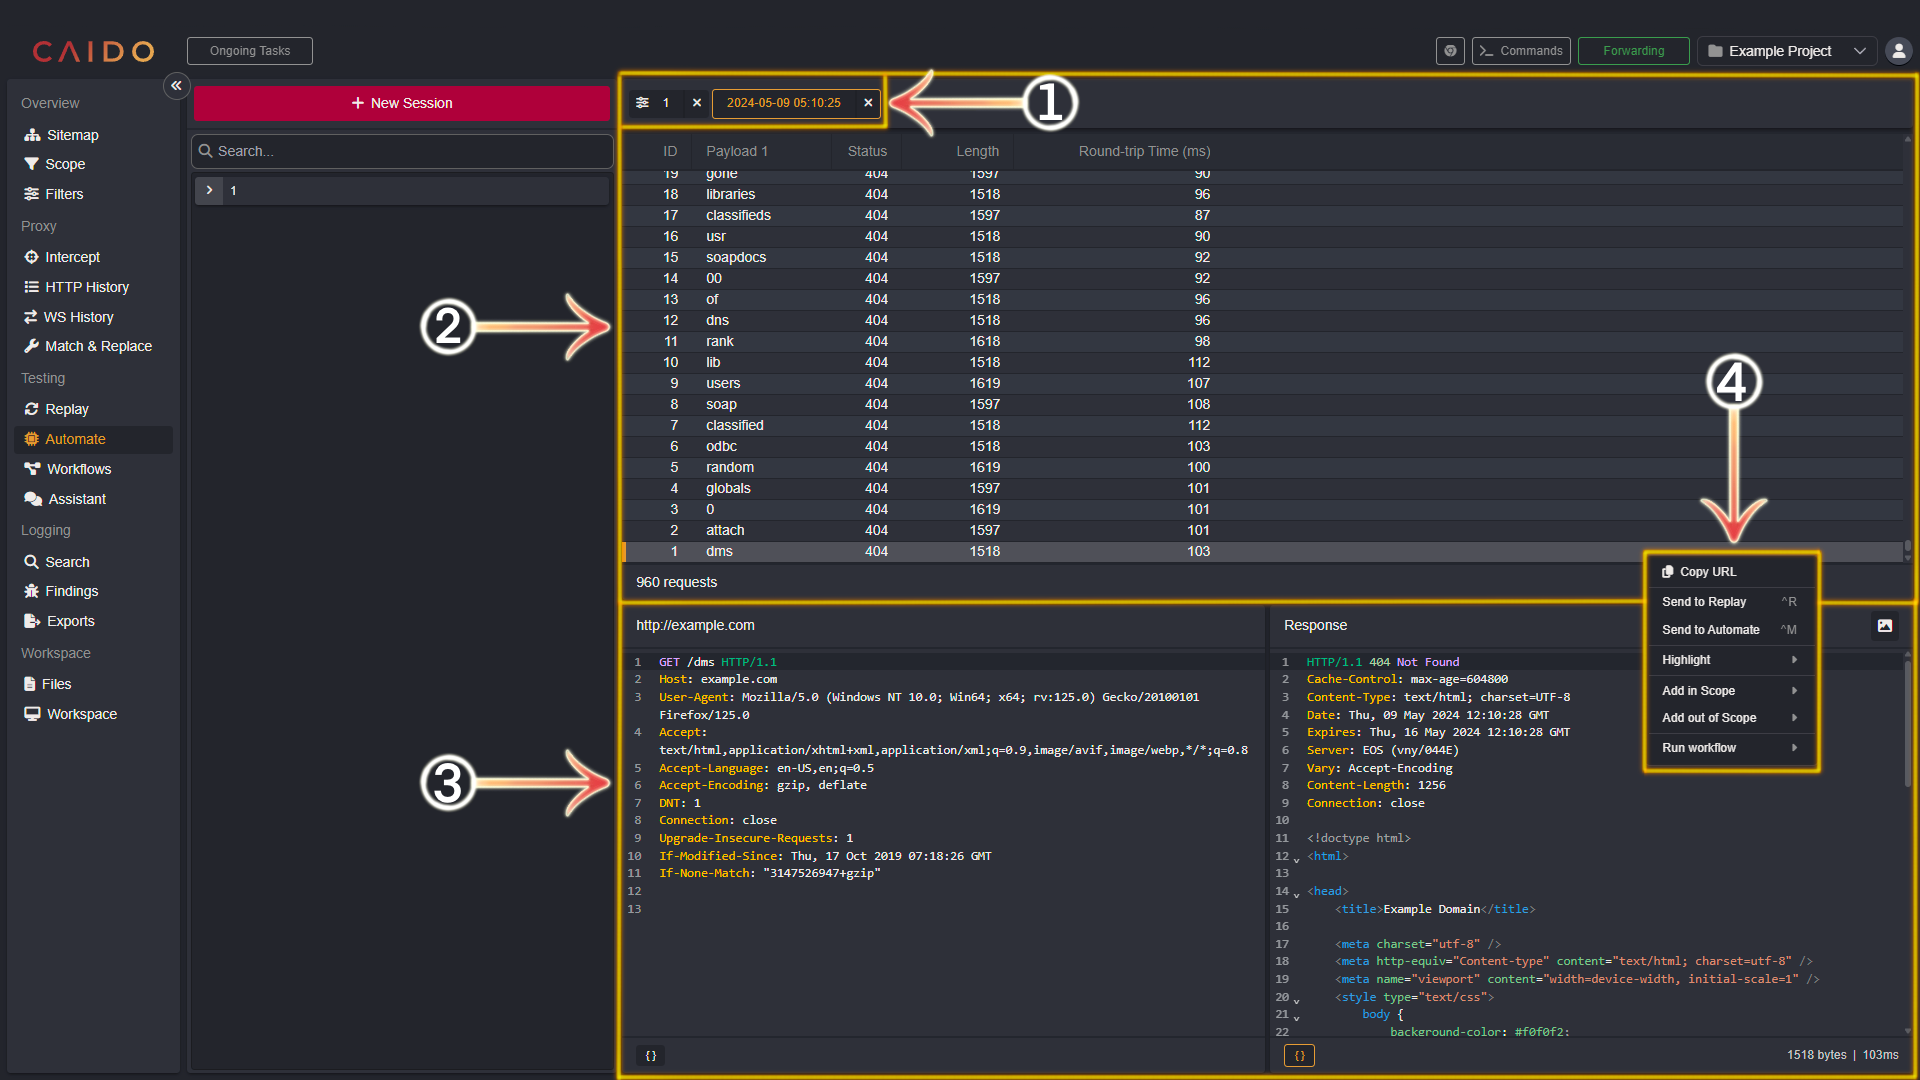
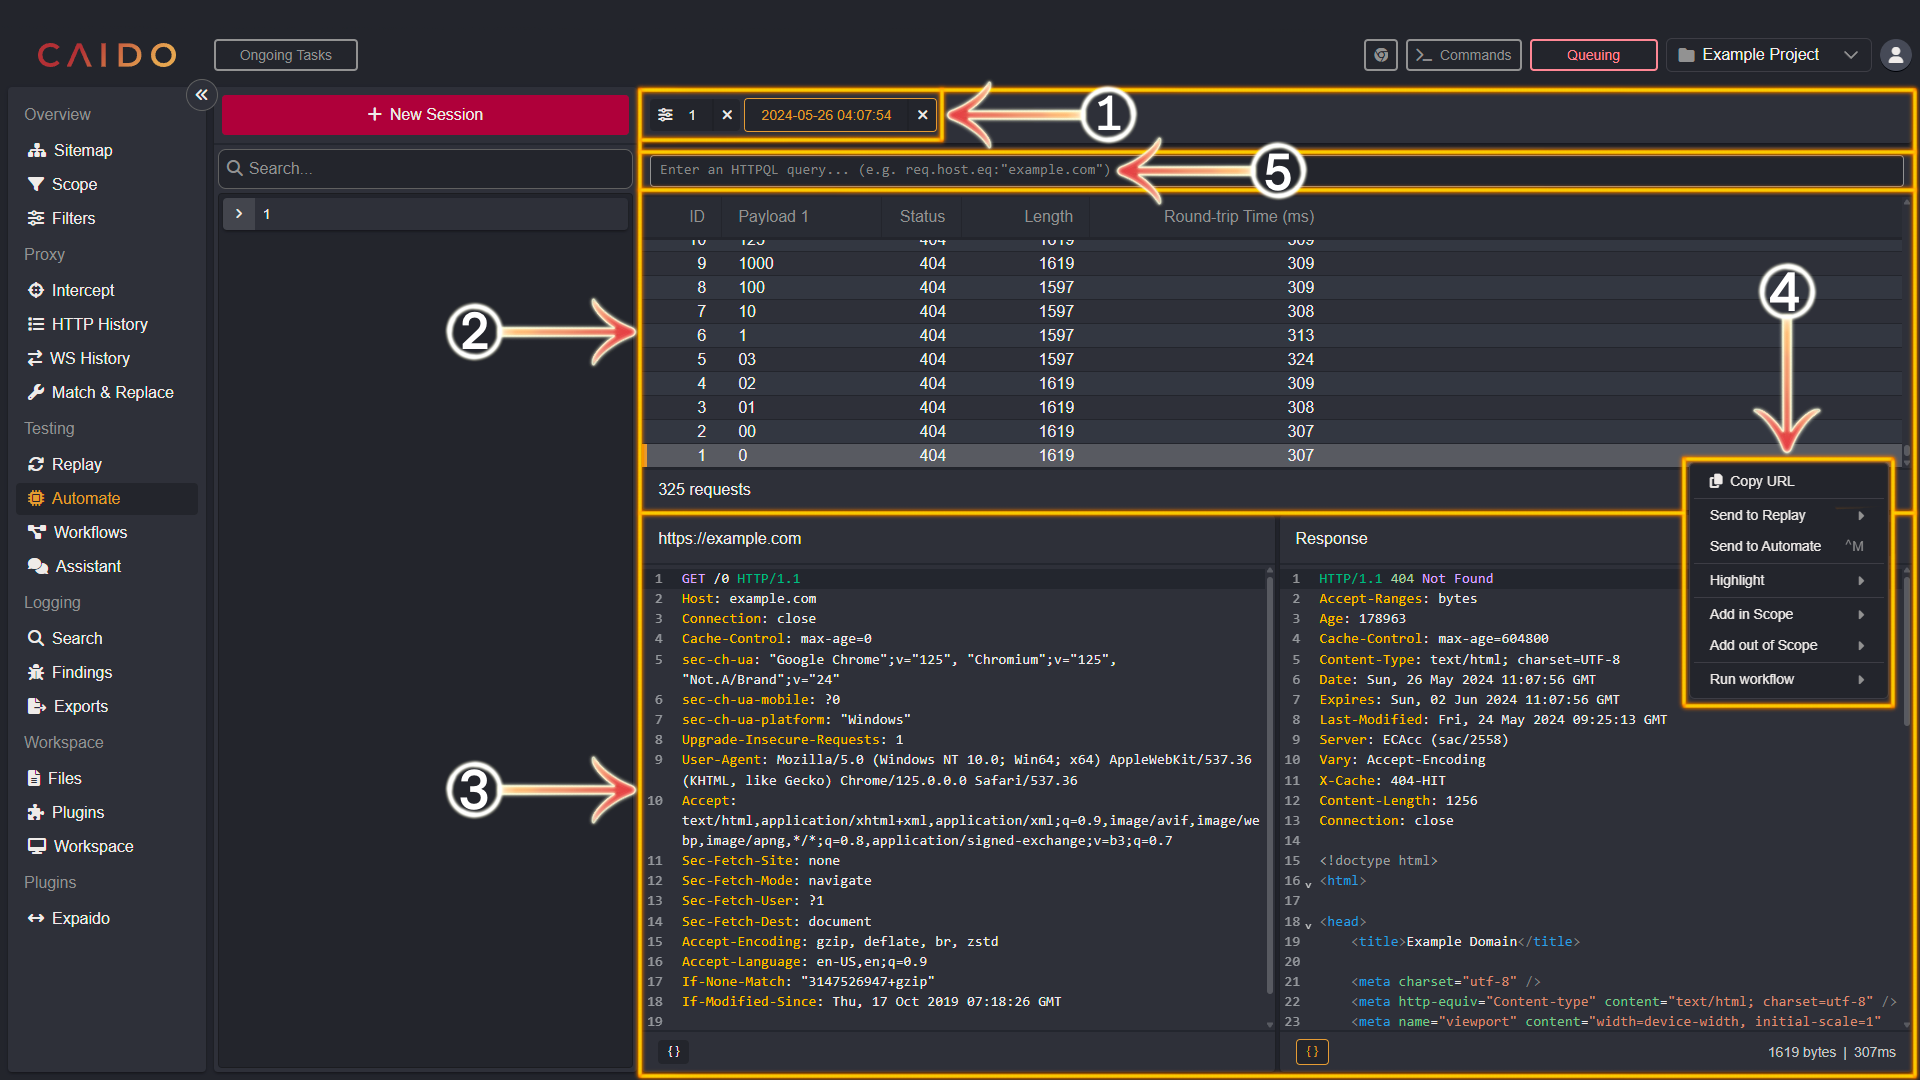
V0.38.0 Updated HTTPQL, both Automate pages, added a general Plugins … (#107)
* V0.38.0 Updated HTTPQL, both Automate pages, added a general Plugins tab page in References, included index and sidebar listings.

* Optimised images with calibre/image-actions

* Quick fix.

* Review ready.

---------

diff --git a/.vitepress/sidebars/reference.ts b/.vitepress/sidebars/reference.ts
@@ -110,6 +110,10 @@ export const referenceSidebar: DefaultTheme.SidebarItem[] = [{
                         link: '/reference/features/workspace/files'
                     },
                     {
+                        text: 'Plugins',
+                        link: '/reference/features/workspace/plugins'
+                    },
+                    {
                         text: 'Projects',
                         link: '/reference/features/workspace/projects'
                     },

diff --git a/src/concepts/essentials/httpql.md b/src/concepts/essentials/httpql.md
@@ -2,98 +2,165 @@
 
 HTTPQL is the query language we use in Caido to let you filtering requests and responses. It is an evolving language that we hope will eventually become an industry standard.
 
-</br>
+::: tip
+The development of Fields is ongoing. [Let us know](https://github.com/caido/caido/issues/new?template=feature.md&title=New%20HttpQL%20field:) which ones you need!
+:::
 
 ## Primitives
 
+The constructing primitives of HTTPQL Filter Clause, in order of position, are the:
+
+1. [Namespace](#namespace)
+2. [Field](#field)
+3. [Operator](#operator-and-value)
+4. [Value](#operator-and-value)
+
 <img width="500" alt="Parts of a filter clause" src="/_images/httpql_clause.png" no-shadow center/>
 
-## 1. Namespace
+## Namespace
 
-The first part of a Filter Clause is the `Namespace`. We currently support 3 Namespaces:
+The **Namespaces** that Caido supports include:
 
-- **req**: For HTTP requests.
-- **resp**: For HTTP responses.
-- **preset**: For Filter Presets.
+- `req`: HTTP requests.
+- `resp`: HTTP responses.
+- `preset`: Filter Presets.
+- `row`: A table row.
+- `source`: The Caido feature source.
 
-The **Preset** Namespace is a bit different, it doesn't have a `Field` nor an `Operator`. View the [Filters](/reference/features/overview/filters.md) documentation for more information.
+::: info
 
-## 2. Field
+- The `preset` and `source` Namespaces do not have a `Field` or an `Operator`. View [Exception Values](#exception-values) for usage.
+- The `source` Namespace is available in [Search](/reference/features/logging/search.md).
+:::
 
-The second part of Filter Clause is the `Field`. Fields differ based on the `Namespace`.
-We will add more Fields eventually. [Let us know](https://github.com/caido/caido/issues/new?template=feature.md&title=New%20HttpQL%20field:) which ones you need!
+## Field
+
+The **Fields** that Caido supports include:
 
 ### req
 
-- **ext**: The file extension (if we detected one). Extensions in Caido always contain the leading `.` (like `.js`). We are liberal in what we accept as an extension.
-- **host**: The hostname of the target server.
-- **method**: The HTTP Method used for the request in uppercase. If the request is malformed, this will contain the bytes read until the first space.
-- **path**: The path of the query, including the extension.
-- **port**: The port of the target server.
-- **raw**: The full raw data of the request. This allows you to search on things we currently don't index (like headers).
+- `ext`: The file extension (_if present_). Extensions in Caido always contain the leading `.` (_such as `.js`_).
+- `host`: The hostname of the target server.
+- `method`: The HTTP Method used for the request in uppercase. If the request is malformed, this will contain the bytes read until the first whitespace.
+- `path`: The path of the query, including the extension.
+- `port`: The port of the target server.
+- `raw`: The full raw data of the request. This allows you to search by elements that Caido currently does not index (_such as headers_).
+- `created_at`: The date and time the request was sent.
+
+::: tip
+Caido is liberal in what is accepted as an extension.
+:::
 
 ### resp
 
-- **code**: Status code of the reponse. If the response is malformed, this will contain everything after `HTTP/1.1` and the following space.
+- `code`: The status code of the reponse. If the response is malformed, this will contain everything after `HTTP/1.1` and the following whitespace.
+- `raw`: The full raw data of the response. This allows you to search by elements that Caido currently does not index (_such as headers_).
+- `roundtrip`: The total time taken (_in milliseconds_) for the request to travel from the client to the server and for the response to travel back from the server to the client.
 
-- **raw**: The full raw data of the response. This allows you to search on things we currently don't index (like headers).
+### row
 
-## 3. Operator
+- `id`: The numerical ID of a table row.
 
-We have three categories of `Operators` depending on the data type.
+## Operator and Value
+
+The **Value** types and associated **Operators** that Caido supports include:
 
 ### Integers
 
-This category of Operators works on Fields that are numbers like `code` and `port`.
+These Operators work on **Fields** that are numerical (_`port`, `code`, `roundtrip` and `id`_).
 
-- **eq**: Equal to `value`.
-- **gt**: Greater than `value`.
-- **gte**: Greater than or equal to `value`.
-- **lt**: Less than `value`.
-- **lte**: Less than or equal to `value`.
-- **ne**: No equal to `value`.
+- `eq`: **Equal to** the supplied value.
+- `gt`: **Greater than** the supplied value.
+- `gte`: **Greater than or equal to** the supplied value.
+- `lt`: **Less than** the supplied value.
+- `lte`: **Less than or equal to** the supplied value.
+- `ne`: **Not equal** to the supplied value.
 
 ### String/Bytes
 
-This category of Operators works on Fields that are text values (or bytes) like `path` and `raw`.
+These Operators work on **Fields** that are text or byte values (_`ext`, `host`, `method`, `path`, `query` and `raw`_).
 
-- **cont**: Contains `value` (case insensitive).
-- **eq**: Equal to `value`.
-- **like**: Sqlite `LIKE` [Operator](https://www.sqlite.org/lang_expr.html#the_like_glob_regexp_match_and_extract_operators). The symbol `%` matches zero or more characters (like `%.js` to match `.map.js`) and the symbol `_` matches one character (like `v_lue` to match `vAlue`).
-- **ncont**: Doesn't contain `value` (case insensitive).
-- **ne**: No equal to `value`.
-- **nlike**: SQLITE `NOT LIKE` Operator, see `like` for more details.
+- `cont`: **Contains** the supplied value.
+- `eq`: **Equal** to the supplied value.
+- `like`: The [SQLite LIKE Operator](https://www.sqlite.org/lang_expr.html#the_like_glob_regexp_match_and_extract_operators).
+- `ncont`: **Does not** contain the supplied value.
+- `ne`: **Not equal to** the supplied value.
+- `nlike`: The [SQLite NOT LIKE Operator](https://www.sqlite.org/lang_expr.html#the_like_glob_regexp_match_and_extract_operators).
+
+::: tip TIPS
+
+- The `cont` and `ncont` Operators are case insensitive.
+- In SQLite - the `%` character matches zero or more characters (_such as `%.js` to match `.map.js`_) and the `_` character matches one character (_such as `v_lue` to match `vAlue`_).
+- The `like` Operator is case sensitive for unicode characters that are beyond the ASCII range.
+:::
 
 ### Regex
 
-This category of Operators works on Fields that are text values (or bytes) like `path` and `raw`.
+These Operators work on **Fields** that are text or byte values (_that are text or byte values (_`ext`, `host`, `method`, `path`, `query` and `raw`_).
 
-- **regex**: Matches the regex `/value.+/`.
-- **nregex**: Doesn't match the regex `/value.+/`.
+- `regex`: Matches the regex `/value.+/`.
+- `nregex`: Doesn't match the regex `/value.+/`.
 
-## 4. Value
+::: info
+Not all regex features are currently supported by Caido (_such as look-ahead expressions_) as they are not included in the regex library of Rust.
+:::
 
-This is the value against which the Field will be compared. The value is either an integer (like `1`), a string (`"value"`) or a regex (`/value/`) depending on the Field and Operator.
+::: tip
+Visit [https://regex101.com/](https://regex101.com/) and select **Rust** syntax for assistance in creating expressions.
+:::
 
-### Preset
+### Date/Time
 
-The `Preset` value is a different. You can reference Presets in one of two ways:
+These Operators work on the **`created_at` Field**.
+
+- `gt`: **Greater than** the supplied value.
+- `lt`: **Less than** the supplied value.
+
+The supported time formats for the values used with `created_at` Operators are:
+
+- [RFC3339](https://datatracker.ietf.org/doc/html/rfc3339) - _example:_ 2024-06-24T17:03:48+00:00
+- [ISO 8601](https://datatracker.ietf.org/doc/html/rfc3339#appendix-A) - _example:_ 2024-06-24T17:03:48+0000
+- [RFC2822](https://datatracker.ietf.org/doc/html/rfc2822) - _example:_ Mon, 24 Jun 2024 17:03:48 +0000
+- [RFC7231](https://datatracker.ietf.org/doc/html/rfc7231#section-7.1.1.2) - _example:_ Mon, 24 Jun 2024 17:03:48 GMT
+- [ISO9075](https://dev.mysql.com/doc/refman/8.0/en/date-and-time-functions.html#function_get-format) - _example:_ 2024-06-24T17:03:48Z
+
+### Standalone
+
+Caido supports standalone string values. This serves as a search shortcut as the `Namespace`, `Field` and `Operator` do not have to be provided.
+
+Using a standalone string (_such as `"my value"`_) will search across both requests and responses. The supplied string is replaced at runtime by:
+
+```httpql
+(req.raw.cont:"my value" OR resp.raw.cont:"my value")
+```
+
+## Exception Values
+
+### preset
+
+When using the `preset` Namespace - the value can be reference by either the `Name` or the `Alias` of the Preset:
 
 - **Name**: `preset:"Preset name"`.
 - **Alias**: `preset:preset-alias`.
 
 View the [Filters](/reference/features/overview/filters.md) documentation for more information.
 
-### Standalone
+### source
 
-We support string standalone values **without** `Namespace`, `Field` and `Operator` (like `"my value"`).
-It is a shortcut to search across both requests and responses, it is replaced at runtime by:
+- `intercept` - Traffic that has been proxied by Caido.
+- `replay` - Traffic generated by sending requests using [Replay](/reference/features/testing/replay.md).
+- `automate` - Traffic generated by an [Automate](/reference/features/testing/automate.md) campaign.
+- `workflow` - Traffic generated by a [Workflow](/reference/workflows/workflows.md).
 
-```
-(req.raw.cont:"my value" OR resp.raw.cont:"my value")
-```
+::: info
+Autocomplete is not currently available when using the `source` Namespace.
+:::
 
-</br>
+::: tip
+
+- When using the `source` Namespace - use all lowercase characters when naming the desired Caido feature.
+- If you are not receiving results of a `source` query - click the `Advanced` settings button next to the HTTPQL query bar to ensure the desired `Sources` are enabled.
+:::
 
 # Queries
 

diff --git a/src/reference/features/workspace/plugins.md b/src/reference/features/workspace/plugins.md
@@ -1,0 +1,19 @@
+# Plugins
+
+The `Plugins` tab allows you to install and manage plugin packages in Caido.
+
+These packages expand Caido's functionality, offering a means to futher customize your Instance.
+
+## Plugins Layout
+
+<img alt="Plugins layout." src="/_images/plugin_layout.png">
+
+1. Select the `Plugins` tab from the left-hand menu within the Caido window.
+2. To import a new Plugin package - click the `Install Package` button. Your device's file manager will pop-up. Select the plugin to upload.
+3. Toggle the `>` icon to `∨` to expand/collapse the details of the associated Plugin.
+4. Toggling the checkbox from filled to empty will enable/disable the associated Plugin.
+5. To remove a plugin from your Caido Instance - click `Uninstall`.
+
+::: info
+If at least one Plugin is enabled - a new `Plugins` section within the left-hand side menu in Caido will be generated. From here, you can select specific Plugins to access additional information/functionality/usage instructions/etc.
+:::

diff --git a/src/quickstart/beginner_guide/first_steps_with_caido/automate.md b/src/quickstart/beginner_guide/first_steps_with_caido/automate.md
@@ -26,6 +26,7 @@ To inspect the results of your `Automate` campaign - proceed with the following 
 2. Each request will be displayed in this pane.
 3. This pane will display the selected request and it's associated response.
 4. This is the resulting list of options presented after right-clicking within the request pane.
+5. The [HTTPQL query](/concepts/essentials/httpql.md) input bar.
 
 ## Attack Strategies
 
@@ -47,6 +48,7 @@ For each payload, you can choose a `Type` from the list:
 - **Hosted File:** Allows you to select one of the files you had previously uploaded to the Caido Instance. View the [Files](/reference/features/workspace/files.md) documentation for more information.
 - **Simple List:** For cases where you want to test a short manually created list of elements.
 - **Null Payload:** Generate requests without changing anything in it.
+- **Numbers:** Generates a range of specified integers to use as a payload.
 
 ## Preprocessors
 

diff --git a/src/reference/features/testing/automate.md b/src/reference/features/testing/automate.md
@@ -26,6 +26,7 @@ To inspect the results of your `Automate` campaign - proceed with the following 
 2. Each request will be displayed in this pane.
 3. This pane will display the selected request and it's associated response.
 4. This is the resulting list of options presented after right-clicking within the request pane.
+5. The [HTTPQL query](/concepts/essentials/httpql.md) input bar.
 
 ## Attack Strategies
 
@@ -47,6 +48,7 @@ For each payload, you can choose a `Type` from the list:
 - **Hosted File:** Allows you to select one of the files you had previously uploaded to the Caido Instance. View the [Files](/reference/features/workspace/files.md) documentation for more information.
 - **Simple List:** For cases where you want to test a short manually created list of elements.
 - **Null Payload:** Generate requests without changing anything in it.
+- **Numbers:** Generates a range of specified integers to use as a payload.
 
 ## Preprocessors
 

diff --git a/src/reference/index.md b/src/reference/index.md
@@ -37,6 +37,7 @@
 ## Features: _Workspace_
 
 - **[Files: _User Uploads_](./features/workspace/files.md)** - uploading files to Caido for use/reuse.
+- **[Plugins](./features/workspace/plugins.md)** - installing and managing plugin packages.
 - **[Projects](./features/workspace/projects.md)** - organizing your assessments.
 - **[Backups](./features/workspace/backups.md)** - creating Backup files of your Projects/recovering Projects from Backup files.
 
